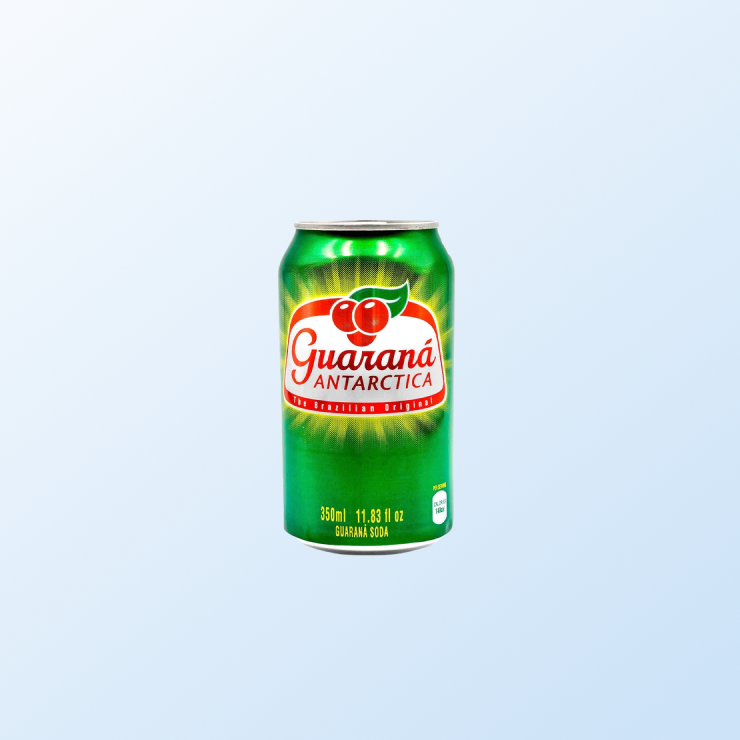
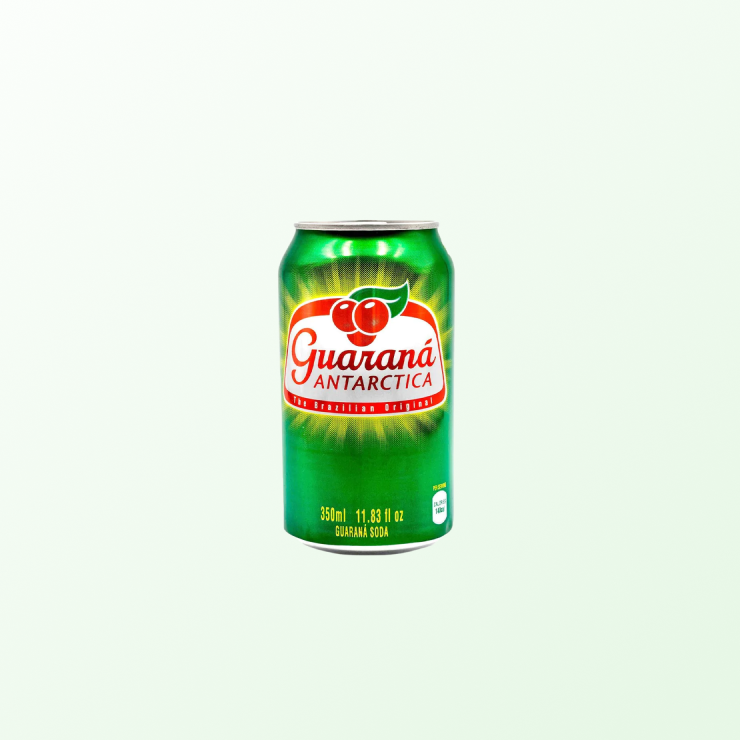
Updated Colour
Changed primary colour to green

Changed region(s): [[0.6527, 0.7459, 1.0, 1.0]]

diff --git a/css/main.css b/css/main.css
@@ -11,7 +11,7 @@ body {
 /* fonts source: https://www.w3schools.com/css/css_font_google.asp */
 
 .style-guide-section-header{
-  background-color: #055299;
+  background-color: #21691B;
   color: #ffffff;
   width: 100%;
   padding: 0.75rem;
@@ -58,12 +58,17 @@ section {
 }
 
 .top-nav {
+  align-items: center;
   width: auto;
   display: flex;
   justify-content: space-between;
-  background-color: #F0F6FC;
+  background-color: #E7F7E6;
   padding: 50px;
   /* source: https://stackoverflow.com/questions/2417130/how-can-i-align-two-divs-horizontally */
+}
+
+.nav-logo{
+
 }
 
 /*styling the input field
@@ -73,7 +78,7 @@ source: https://www.w3schools.com/cssref/pr_font_weight.asp */
   display:inline-block;
   margin-top: 1rem;
   font-size: 1rem;
-  color: #055299;
+  color: #21691B;
   font-weight: bold;
 }
 
@@ -88,7 +93,7 @@ source: https://www.w3schools.com/cssref/pr_font_weight.asp */
 
 .input-field {
   border-radius: 0;
-  border-color: #055299;
+  border-color: #21691B;
   border-width: 2px;
   font-family: "Inter", sans-serif;
   width: 100%;
@@ -107,11 +112,11 @@ source: https://www.w3schools.com/cssref/pr_font_weight.asp */
 .button-nav {
   display: inline-block;
   padding: 0.75rem;
-  color: #055299;
+  color: #21691B;
   background-color: #ffffff;
   text-decoration: none;
   border-style: solid;
-  border-color: #055299;
+  border-color: #21691B;
   border-width: 2px;
   font-weight: 600;
   transition-property: background-color, border-radius; 
@@ -121,7 +126,7 @@ source: https://www.w3schools.com/cssref/pr_font_weight.asp */
 }
 
 .button-nav:hover, .button-nav:focus {
-  background-color: #055299;
+  background-color: #21691B;
   color: #ffffff;
   border-radius: 1rem;
 }
@@ -131,10 +136,10 @@ source: https://www.w3schools.com/cssref/pr_font_weight.asp */
   display: inline-block;
   padding: 0.75rem;
   color: #ffffff;
-  background-color: #055299;
+  background-color: #21691B;
   text-decoration: none;
   border-style: solid;
-  border-color: #055299;
+  border-color: #21691B;
   border-width: 2px;
   font-weight: 600;
   transition-property: background-color, border-radius; 
@@ -145,7 +150,7 @@ source: https://www.w3schools.com/cssref/pr_font_weight.asp */
 
 .button-submit:hover, .button-submit:focus {
   background-color: #ffffff;
-  color: #055299;
+  color: #21691B;
   border-radius: 1rem;
 }
 
@@ -174,7 +179,7 @@ source: https://www.w3schools.com/cssref/pr_font_weight.asp */
 
 /* Styling for the in-text link */
 .in-text-link {
-  color: #055299;
+  color: #21691B;
   font-weight: 700;
 }
 
@@ -187,7 +192,7 @@ source: https://www.w3schools.com/cssref/pr_font_weight.asp */
 .linked-image:hover, .linked-image:focus {
   border: 5px;
   border-style: solid;
-  border-color: #055299;
+  border-color: #21691B;
   border-radius: 3rem;
 }
 
@@ -201,7 +206,7 @@ source: https://www.w3schools.com/cssref/pr_font_weight.asp */
 
 .main-nav {
   vertical-align: middle;
-  background-color: #F0F6FC;
+  background-color: #E7F7E6;
   display: flex;
   padding: 1rem;
   align-content: right;
@@ -217,7 +222,7 @@ source: https://www.w3schools.com/cssref/pr_font_weight.asp */
   margin-bottom: 0.75rem;
   margin-top: 1rem;
   font-size: 4rem;
-  color: #055299;
+  color: #21691B;
 }
 
 .header2 {
@@ -257,10 +262,10 @@ p {
 */
 
 .product-listing {
-  border: 3px solid #055299;
+  border: 3px solid #21691B;
   padding: 1rem;
   width: fit-content;
-  background-color: #F0F6FC;
+  background-color: #E7F7E6;
 }
 
 .product-image {
@@ -269,7 +274,7 @@ p {
 }
 
 .checkout-cart {
-  background-color: #F0F6FC;
+  background-color: #E7F7E6;
   padding: 2rem;
   width: fit-content;
 }

diff --git a/index.html b/index.html
@@ -16,7 +16,7 @@
       
       <div class="top-nav">
         
-        <img src="Drinkin.png" alt="Drinkin Logo" height="50px" class="nav-left">
+        <img src="Drinkin.png" alt="Drinkin Logo" height="90px" class="nav-logo">
      
         <nav class="nav-right">        
           <a class="button-nav" href="#interactive_elements">Interactive Elements</a>
